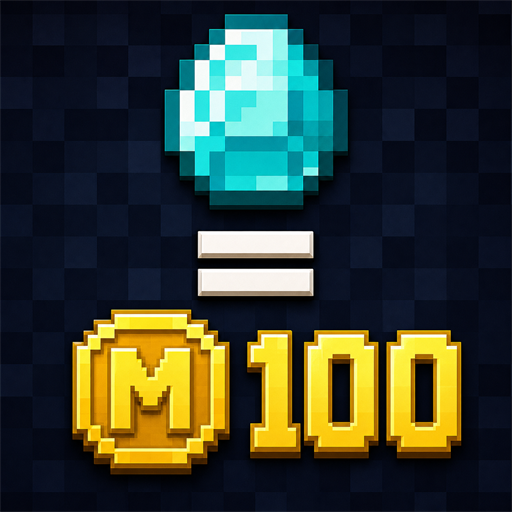
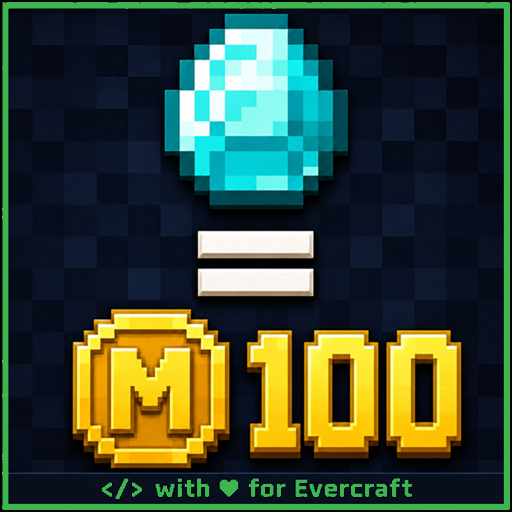
Release Moolah 1.4.0

diff --git a/Moolah BP/scripts/main.js b/Moolah BP/scripts/main.js
@@ -61,7 +61,7 @@ import {
 import { initializeChestShopSystem } from "./chestshops.js";
 
 const MINECOIN_GLYPH = "\uE102";
-const MOOLAH_VERSION = "1.3.5";
+const MOOLAH_VERSION = "1.4.0";
 const MINIMUM_MINECRAFT_VERSION = "1.26.60";
 const SERVER_API_VERSION = "2.10.0";
 const SERVER_UI_API_VERSION = "2.0.0";

diff --git a/CHANGELOG.md b/CHANGELOG.md
@@ -1,5 +1,17 @@
 # Changelog
 
+## 1.4.0 - 2026-11-13
+
+- Added the off-by-default Chest Shop system for supported chests and barrels,
+  including registration fees, sales tax, owner configuration, safe stock
+  pricing, buyer catalogs, multi-set purchases, seller Inbox proceeds, claim
+  integration, protection, and dedicated audit logs.
+- Added shop-name colors, custom buyer descriptions, item-variant details,
+  grouped stock listings, chest sound feedback, and parent-menu navigation.
+- Added Realm-oriented RawMessage sign updates with retry, verification, and
+  player-visible failure feedback.
+- Updated both pack icons with an Evercraft Green frame and dark branded banner.
+
 ## 1.3.5 - 2026-11-10 (Local Test)
 
 - Changed scripted Chest Shop sign updates to use RawMessage first for Realm
